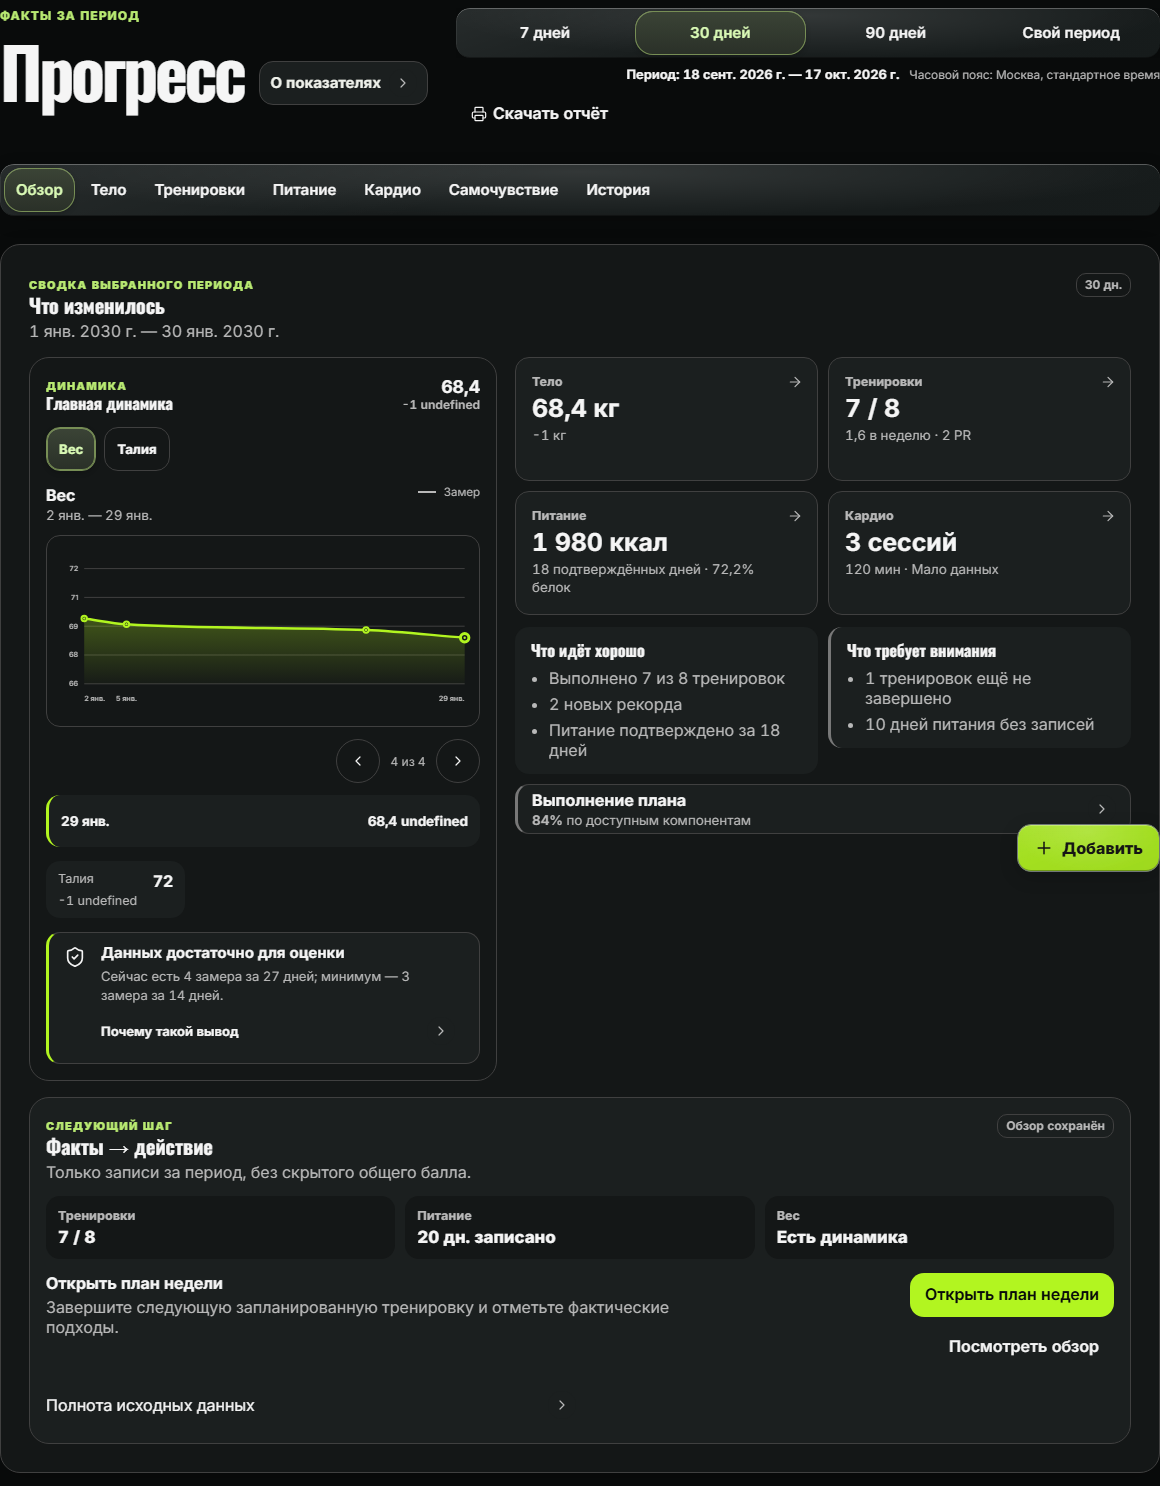
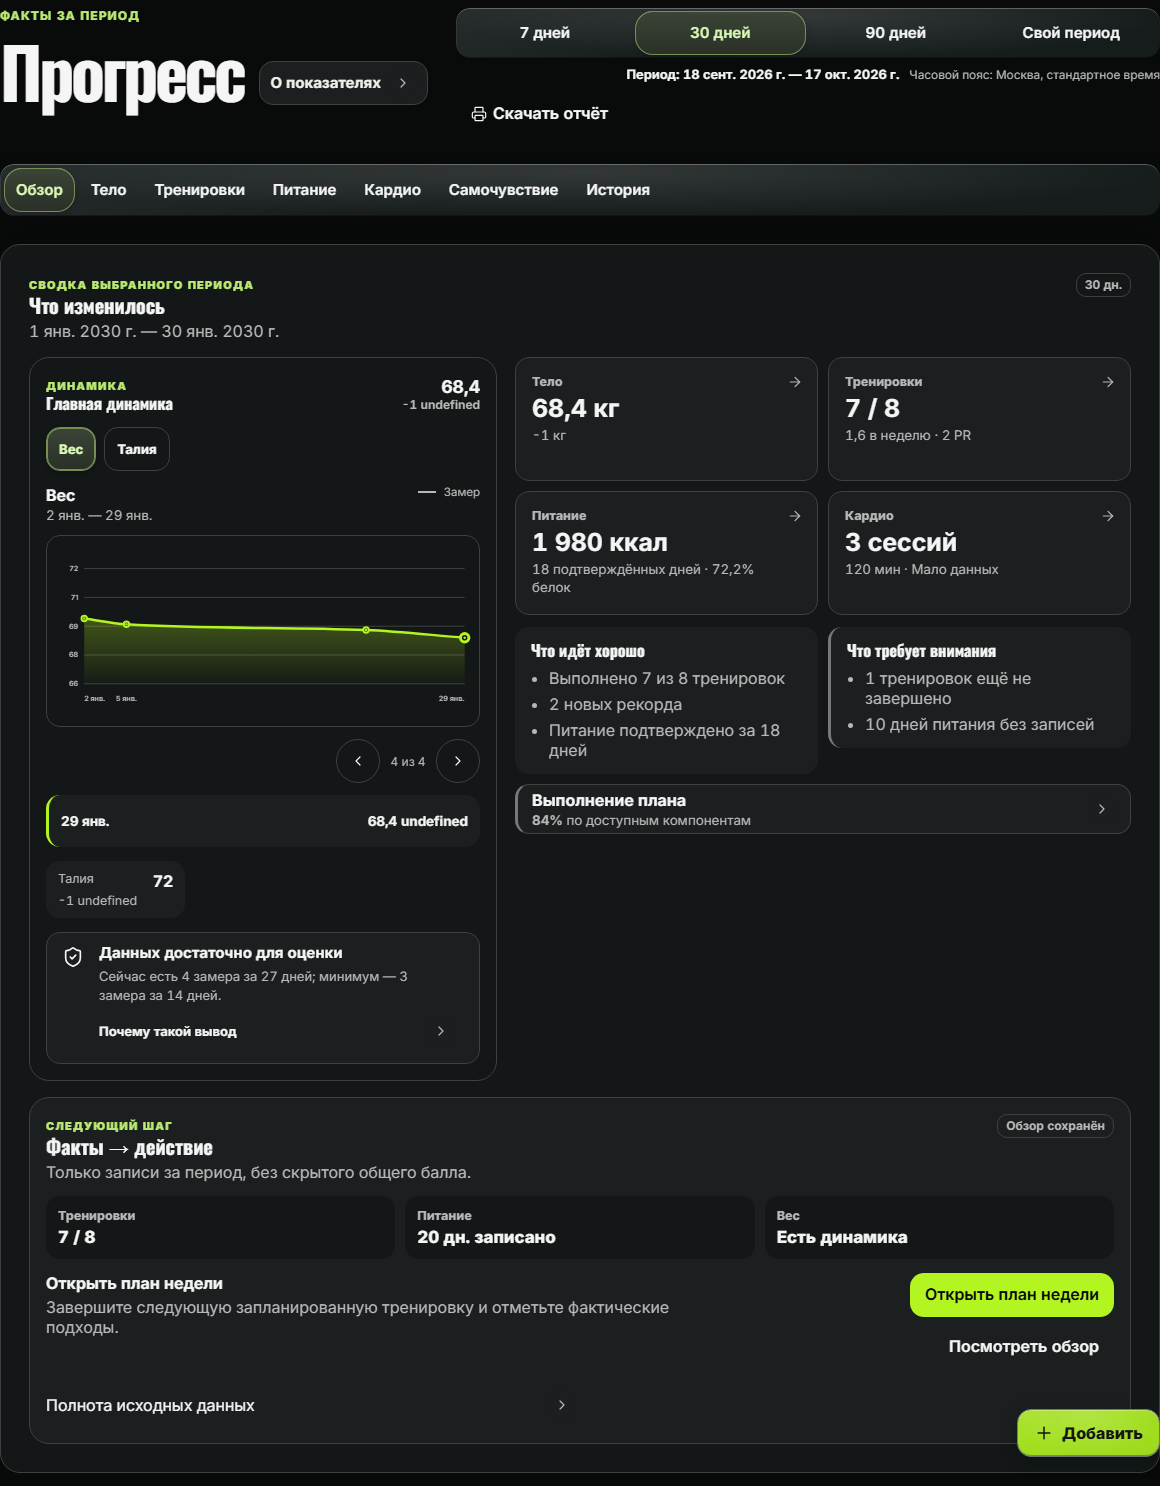
fix(ui): remove remaining confidence lime rails and strengthen guard (#1049)

Changed region(s): [[0.031, 0.6191, 0.3103, 0.712], [0.869, 0.9287, 1.0, 0.9906], [0.869, 0.5572, 1.0, 0.5882]]

diff --git a/frontend/tests/e2e/progress-experience.spec.ts b/frontend/tests/e2e/progress-experience.spec.ts
@@ -1139,7 +1139,7 @@ test('Progress has no decorative one-sided lime rails across themes and widths',
         const allowed = (element: HTMLElement) =>
           Boolean(
             element.closest(
-              '.data-confidence, .data-viz-chart__selection, [aria-selected="true"], [aria-current], .is-active, .is-focused, [role="status"], [role="alert"], .cta',
+              '.data-viz-chart__selection, [aria-selected="true"], [aria-current], .is-active, .is-focused, .cta',
             ),
           );
         const violations: string[] = [];
@@ -1180,13 +1180,15 @@ test('Progress has no decorative one-sided lime rails across themes and widths',
           confidenceBorderLeftColor: confidence
             ? getComputedStyle(confidence).borderLeftColor
             : null,
+          confidenceBorderTopColor: confidence ? getComputedStyle(confidence).borderTopColor : null,
           lime,
         };
       });
       expect(contract.violations).toEqual([]);
       expect(contract.goodBorderLeftWidth).not.toBe('3px');
-      expect(contract.confidenceBorderLeftWidth).toBe('3px');
-      expect(contract.confidenceBorderLeftColor).toBe(contract.lime);
+      expect(contract.confidenceBorderLeftWidth).toBe('1px');
+      expect(contract.confidenceBorderLeftColor).toBe(contract.confidenceBorderTopColor);
+      expect(contract.confidenceBorderLeftColor).not.toBe(contract.lime);
 
       if (CAPTURE_1049_BEFORE_EVIDENCE && viewport.width >= 1440) {
         const baselineStyle = await page.addStyleTag({
@@ -1216,6 +1218,21 @@ test('Progress has no decorative one-sided lime rails across themes and widths',
         await baselineStyle.evaluate((element) => element.parentNode?.removeChild(element));
         await goodCard.screenshot({
           path: resolve(ISSUE_1049_EVIDENCE_DIR, colorScheme + '-mobile-393-after-good.png'),
+        });
+
+        const confidenceCard = page.locator('.data-confidence--sufficient').first();
+        const historicalConfidenceRail = await page.addStyleTag({
+          content:
+            '.app-section--progress .data-confidence { border-inline-start-width: 3px !important; border-inline-start-color: var(--v2-lime) !important; }',
+        });
+        await confidenceCard.screenshot({
+          path: resolve(ISSUE_1049_EVIDENCE_DIR, colorScheme + '-mobile-393-before-confidence.png'),
+        });
+        await historicalConfidenceRail.evaluate((element) =>
+          element.parentNode?.removeChild(element),
+        );
+        await confidenceCard.screenshot({
+          path: resolve(ISSUE_1049_EVIDENCE_DIR, colorScheme + '-mobile-393-after-confidence.png'),
         });
       }
 

diff --git a/frontend/tests/unit/styles/thickLimeEdges.test.ts b/frontend/tests/unit/styles/thickLimeEdges.test.ts
@@ -71,7 +71,10 @@ describe('thick lime edge safeguard', () => {
       /\.progress-report-confidence\s*\{[^}]*border-left\s*:\s*3px\s+solid\s+var\(--v2-lime\)/s,
     );
     expect(systemStyles).toMatch(
-      /\.data-confidence\s*\{[^}]*border-inline-start-width\s*:\s*3px[^}]*border-inline-start-color\s*:\s*var\(--v2-lime\)/s,
+      /\.data-confidence\s*\{[^}]*border\s*:\s*1px solid var\(--v2-border\)/s,
+    );
+    expect(systemStyles).not.toMatch(
+      /\.data-confidence\s*\{[^}]*border-inline-start-width\s*:\s*3px/s,
     );
   });
 });

diff --git a/frontend/tests/fixtures/styles/thick-lime-edges/allowed.tsx b/frontend/tests/fixtures/styles/thick-lime-edges/allowed.tsx
@@ -5,7 +5,7 @@ export function AllowedInlineStyles() {
       <button type="button" style={{ border: '1px solid var(--v2-lime)' }} />
       <div className="active-tab" style={{ borderLeft: '3px solid var(--v2-lime)' }} />
       <div style={{ outline: '3px solid var(--v2-lime)' }} />
-      <div className="semantic-warning" style={{ borderBottom: '4px solid var(--v2-lime)' }} />
+      <div className="semantic-warning" style={{ border: '1px solid var(--v2-lime)' }} />
     </>
   );
 }

diff --git a/frontend/src/styles/design-system.css b/frontend/src/styles/design-system.css
@@ -809,8 +809,6 @@ h3 {
   min-width: 0;
   padding: var(--v2-space-3);
   border: 1px solid var(--v2-border);
-  border-inline-start-width: 3px;
-  border-inline-start-color: var(--v2-lime);
   border-radius: var(--v2-control-radius);
   background: var(--v2-surface-secondary);
   color: var(--v2-text-primary);

diff --git a/frontend/tests/fixtures/styles/thick-lime-edges/forbidden.css b/frontend/tests/fixtures/styles/thick-lime-edges/forbidden.css
@@ -2,6 +2,10 @@
   border-left: 3px solid var(--v2-lime);
 }
 
+.semantic-warning {
+  border-left: 4px solid var(--v2-lime);
+}
+
 .forbidden-bottom {
   border-bottom: 4px solid var(--accent);
 }

diff --git a/frontend/tests/fixtures/styles/thick-lime-edges/allowed.css b/frontend/tests/fixtures/styles/thick-lime-edges/allowed.css
@@ -11,5 +11,5 @@
 }
 
 .semantic-warning {
-  border-bottom: 4px solid var(--v2-lime);
+  border: 1px solid var(--v2-lime);
 }

diff --git a/docs/ux/final-issues-acceptance/evidence/1049-thick-lime-edge-safeguard-20261017/README.md b/docs/ux/final-issues-acceptance/evidence/1049-thick-lime-edge-safeguard-20261017/README.md
@@ -21,15 +21,17 @@ master. BEFORE deliberately injects only the original 3px lime decoration into t
 fixture; AFTER uses the corrected production CSS. These are **synthetic test captures**, not
 production screenshots or personal user data.
 
-- Dark: [BEFORE](before/progress-good-card-mobile-393-dark.png) · [AFTER](after/progress-good-card-mobile-393-dark.png)
-- Light: [BEFORE](before/progress-good-card-mobile-393-light.png) · [AFTER](after/progress-good-card-mobile-393-light.png)
+- «Что идёт хорошо», Dark: [BEFORE](before/progress-good-card-mobile-393-dark.png) · [AFTER](after/progress-good-card-mobile-393-dark.png)
+- «Что идёт хорошо», Light: [BEFORE](before/progress-good-card-mobile-393-light.png) · [AFTER](after/progress-good-card-mobile-393-light.png)
+- «Данных достаточно для оценки» (`DataConfidence`), Dark: [BEFORE](before/progress-confidence-mobile-393-dark.png) · [AFTER](after/progress-confidence-mobile-393-dark.png)
+- «Данных достаточно для оценки» (`DataConfidence`), Light: [BEFORE](before/progress-confidence-mobile-393-light.png) · [AFTER](after/progress-confidence-mobile-393-light.png)
 
 ## Audited and changed sources
 
 - Removed the decorative 3px lime `border-left` from the Progress “Что идёт хорошо” column in `ux-ia-redesign.css`.
 - Removed the decorative `inset 3px 0` lime rail from `.app-section--progress .program-history-workout`.
 - Removed the decorative 3px lime left edge from the report confidence container while retaining its thin uniform frame.
-- Preserved `DataConfidence`, active/current/selected states, keyboard focus, CTA treatments and semantic status/warning styling.
+- Preserved `DataConfidence` message, status icons and actions while replacing its 3px one-sided lime rail with the same neutral 1px border as the other sides (throughout YFC). Active/current/selected states, keyboard focus and CTA treatments remain.
 
 ## Permanent safeguard
 
@@ -40,7 +42,8 @@ shadow, edge-sized lime gradient or positioned pseudo-element at 3px or more, wh
 explicit allowed state and semantic-status contexts.
 
 The isolated negative fixtures intentionally fail with exit code 1; allowed thin-frame,
-active-tab, focus and semantic-warning fixtures pass with exit code 0. The computed-style E2E
+active-tab, focus and thin-framed semantic-warning fixtures pass with exit code 0.
+Thick one-sided lime rails on semantic warnings are forbidden too. The computed-style E2E
 also checks Progress at 320/360/393/430/1440 px in light and dark Chromium runs. Cross-browser
 verification is reported separately; this evidence is not a claim of physical iPhone,
 Telegram-native or production verification.

diff --git a/.agents/references/DESIGN_GUARDRAILS.md b/.agents/references/DESIGN_GUARDRAILS.md
@@ -19,7 +19,8 @@
 одну сторону элемента. Нарушением считается физическая или логическая `border-*`, inset-тень,
 жёсткая граница градиента или позиционированный псевдоэлемент с цветом YFC lime/accent и
 толщиной от 3px. Разрешены равномерная тонкая рамка 1px, обычная обводка, keyboard focus,
-active/current/selected, CTA и семантический status/warning. Это не глобальный запрет на
+active/current/selected и CTA. Семантические предупреждения сохраняют текст, значки и
+тонкий контур, но не толстую лаймовую полосу. Это не глобальный запрет на
 border, box-shadow, outline или лаймовый цвет.
 
 Обязательная группа `frontend-checks` запускает это правило через `npm run lint:lime-edges`.

diff --git a/AGENTS.md b/AGENTS.md
@@ -71,8 +71,9 @@ visual redesigns.
 Do not add a disproportionate one-sided lime edge to a user-facing component. A style is
 forbidden when a single physical or logical side, inset shadow rail, hard-stop gradient or
 positioned pseudo-element uses a YFC lime/accent color at 3px or more. A uniform 1px frame,
-ordinary thin outline, focus outline, active/current/selected state, CTA treatment and a
-semantic status or warning are allowed; this is not a global ban on borders, shadows,
+ordinary thin outline, focus outline, active/current/selected state and CTA treatment
+are allowed. Semantic status and warning messages must keep their icons and text but
+must not use a thick one-sided lime strip; this is not a global ban on borders, shadows,
 outlines or lime.
 
 `npm run lint` includes `lint:lime-edges`, which checks changed CSS, CSS Modules, JSX/TSX

diff --git a/docs/ux/final-issues-acceptance/evidence/1049-thick-lime-edge-safeguard-20261017/computed-summary.md b/docs/ux/final-issues-acceptance/evidence/1049-thick-lime-edge-safeguard-20261017/computed-summary.md
@@ -11,8 +11,8 @@ Observed in the deterministic fixture:
 
 - Progress “Что идёт хорошо”: `border-left-width` is 3px in the reconstructed BEFORE and is
   absent after the fix.
-- `DataConfidence`: the semantic `border-left-width: 3px` and lime color remain present and are
-  explicitly accepted by the contract test.
+- `DataConfidence`: its status text, icons and actions remain, while the former 3px
+  one-sided lime border becomes a uniform neutral 1px border, asserted by the contract test.
 - Progress history workout: the decorative `inset 3px 0` lime shadow is removed; the ordinary
   1px contour remains.
 - No unapproved one-sided computed lime border or inset rail was found at 320, 360, 393, 430 or
